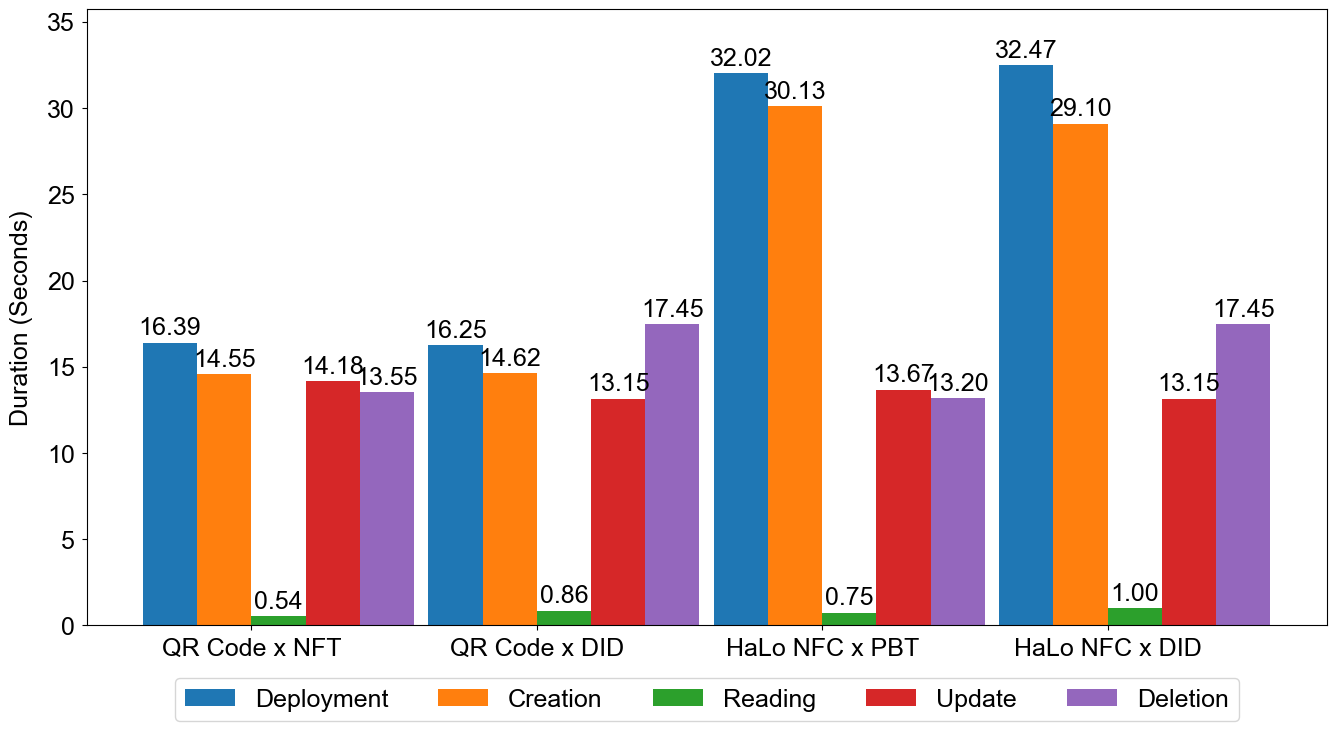
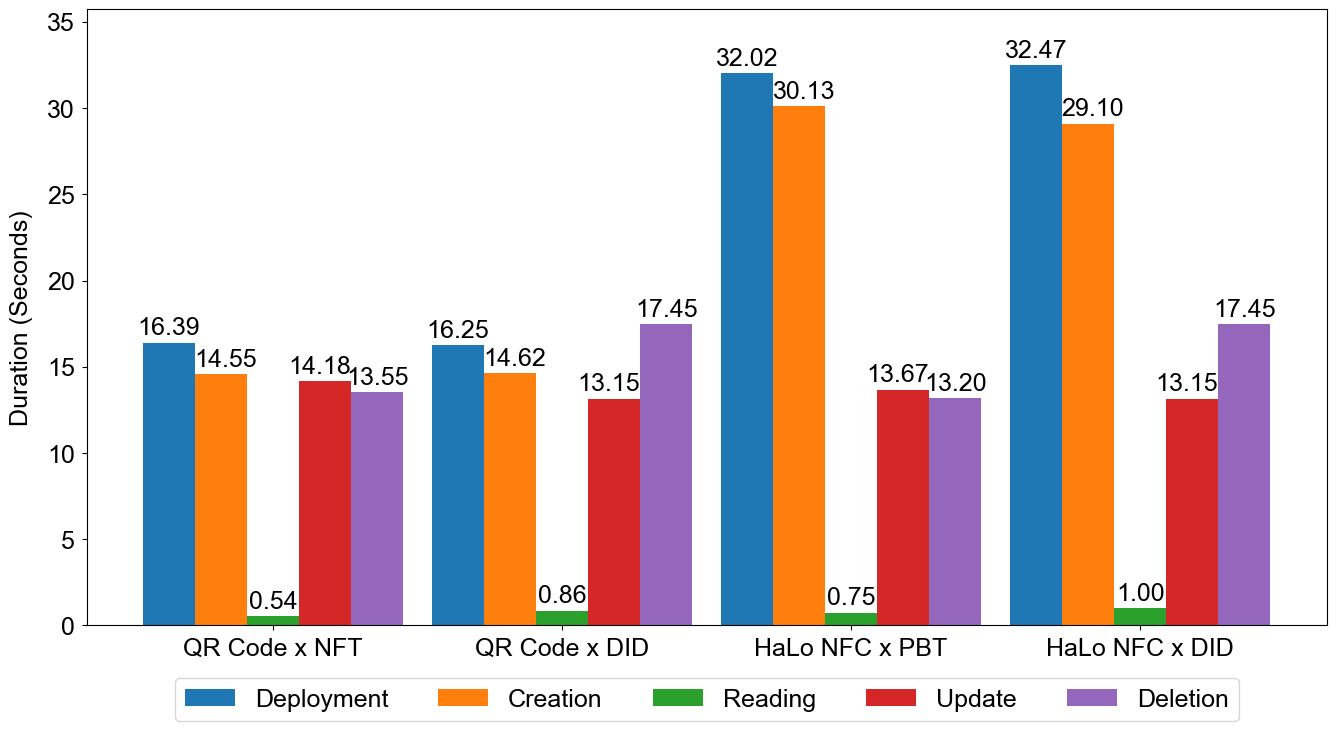
performance plots fixed

diff --git a/evaluation/utils/performance.py b/evaluation/utils/performance.py
@@ -265,7 +265,7 @@ def plot_passport_types_performance(performance_data):
             data_dict[label][operation] = entry["data"][label]
 
     x = np.arange(len(labels))
-    width = 0.19
+    width = 0.18
 
     fig, ax = plt.subplots(figsize=(16, 8))
 
@@ -274,22 +274,19 @@ def plot_passport_types_performance(performance_data):
         y = [np.sum(data_dict[label][operation]) for label in labels]
         bars = ax.bar(x + i * width, y, width, label=operation)
 
+        adjustment = 0
+        if i == 1:
+            adjustment = 3.5
+        if i == 3:
+            adjustment = -4
+
         for bar in bars:
             height = bar.get_height()
-
-            # ax.text(
-            #     bar.get_x() + bar.get_width() / 2,
-            #     height / 2,
-            #     f"{height:.2f}",
-            #     ha="center",
-            #     va="center",
-            #     fontsize=PERFORMANCE_LABEL_SIZE,
-            # )
 
             ax.annotate(
                 f"{height:.2f}",
                 xy=(bar.get_x() + bar.get_width() / 2, height),
-                xytext=(0, 2),
+                xytext=(0 + adjustment, 2),
                 textcoords="offset points",
                 ha="center",
                 va="bottom",
@@ -312,7 +309,7 @@ def plot_passport_types_performance(performance_data):
             fontsize=PERFORMANCE_TITLE_SIZE,
             pad=X_PAD,
         )
-    ax.set_xticks(x + width * 1.5)
+    ax.set_xticks(x + width * 2)
     ax.set_xticklabels(labels, fontsize=PERFORMANCE_LABEL_SIZE)
     ax.tick_params(
         axis="both",

diff --git a/evaluation/utils/gas_costs.py b/evaluation/utils/gas_costs.py
@@ -291,15 +291,6 @@ def plot_passport_types_gas_costs(gas_costs_data):
 
             usd = eth_to_usd(height)
 
-            # ax.text(
-            #     bar.get_x() + bar.get_width() / 2,
-            #     height / 2,
-            #     f"{usd:.2f}\nUSD",
-            #     ha="center",
-            #     va="center",
-            #     fontsize=GAS_COSTS_LABEL_SIZE,
-            # )
-
             ax.annotate(
                 f"{usd:.2f}",
                 xy=(bar.get_x() + bar.get_width() / 2, height),
